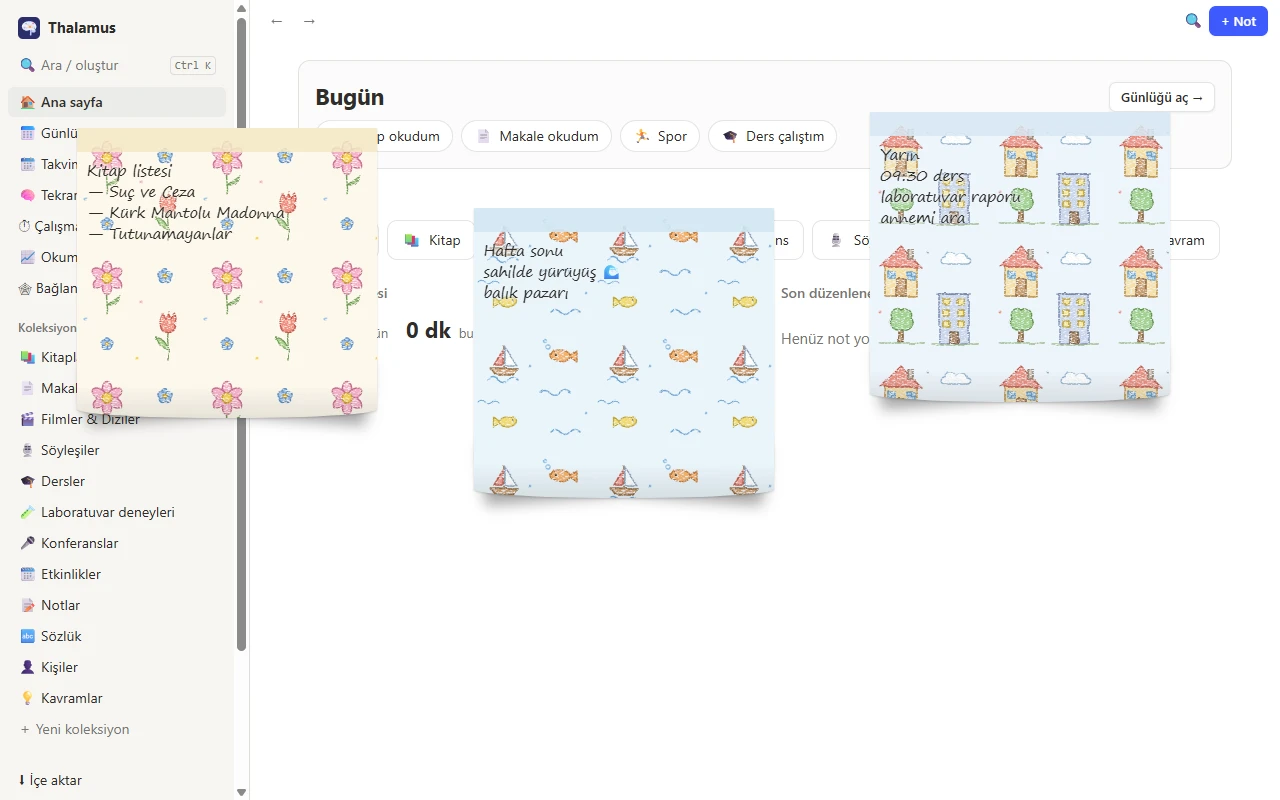
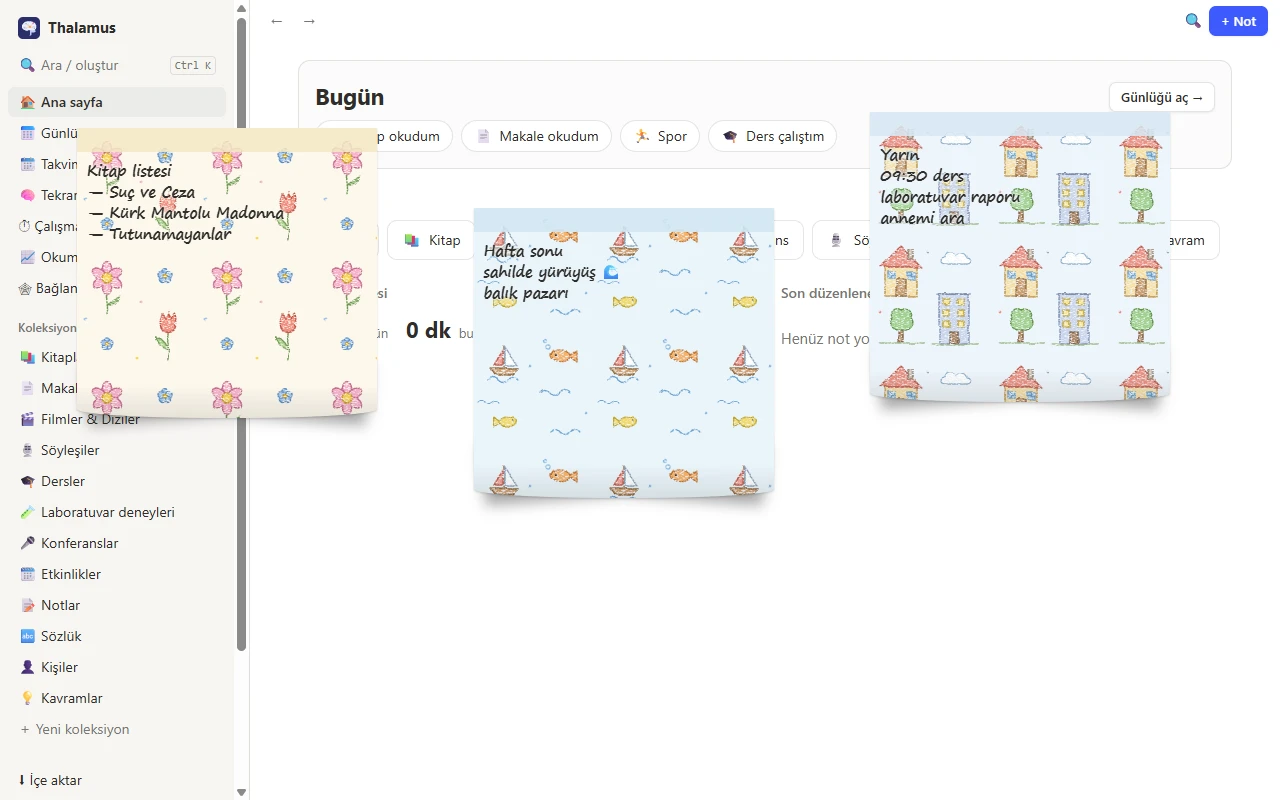
Patterned sticky notes: bold handwriting on patterned paper for readability

Changed region(s): [[0.0625, 0.1875, 0.2188, 0.3125], [0.6875, 0.1875, 0.7812, 0.2812], [0.375, 0.3125, 0.4688, 0.375]]

diff --git a/web/src/pages.css b/web/src/pages.css
@@ -326,7 +326,7 @@ body.focus-mode .writing-bar:hover { opacity: 1; }
 }
 .sticky.pat .sticky-head { background: color-mix(in srgb, var(--sk-head) 85%, transparent); }
 /* yazı desenin üstünde okunur kalsın: harflerin çevresinde kâğıt renginde hafif hale */
-.sticky.pat textarea { text-shadow: 0 0 2px var(--sk), 0 0 4px var(--sk), 0 0 6px var(--sk); }
+.sticky.pat textarea { font-weight: 700; text-shadow: 0 0 2px var(--sk), 0 0 4px var(--sk), 0 0 6px var(--sk); }
 .sticky-tab.pat { text-shadow: 0 0 3px #fff, 0 0 5px #fff; }
 .sticky.dragging { user-select: none; }
 .sticky.dragging::before, .sticky.dragging::after { box-shadow: 0 22px 18px rgb(0 0 0 / 30%); }
